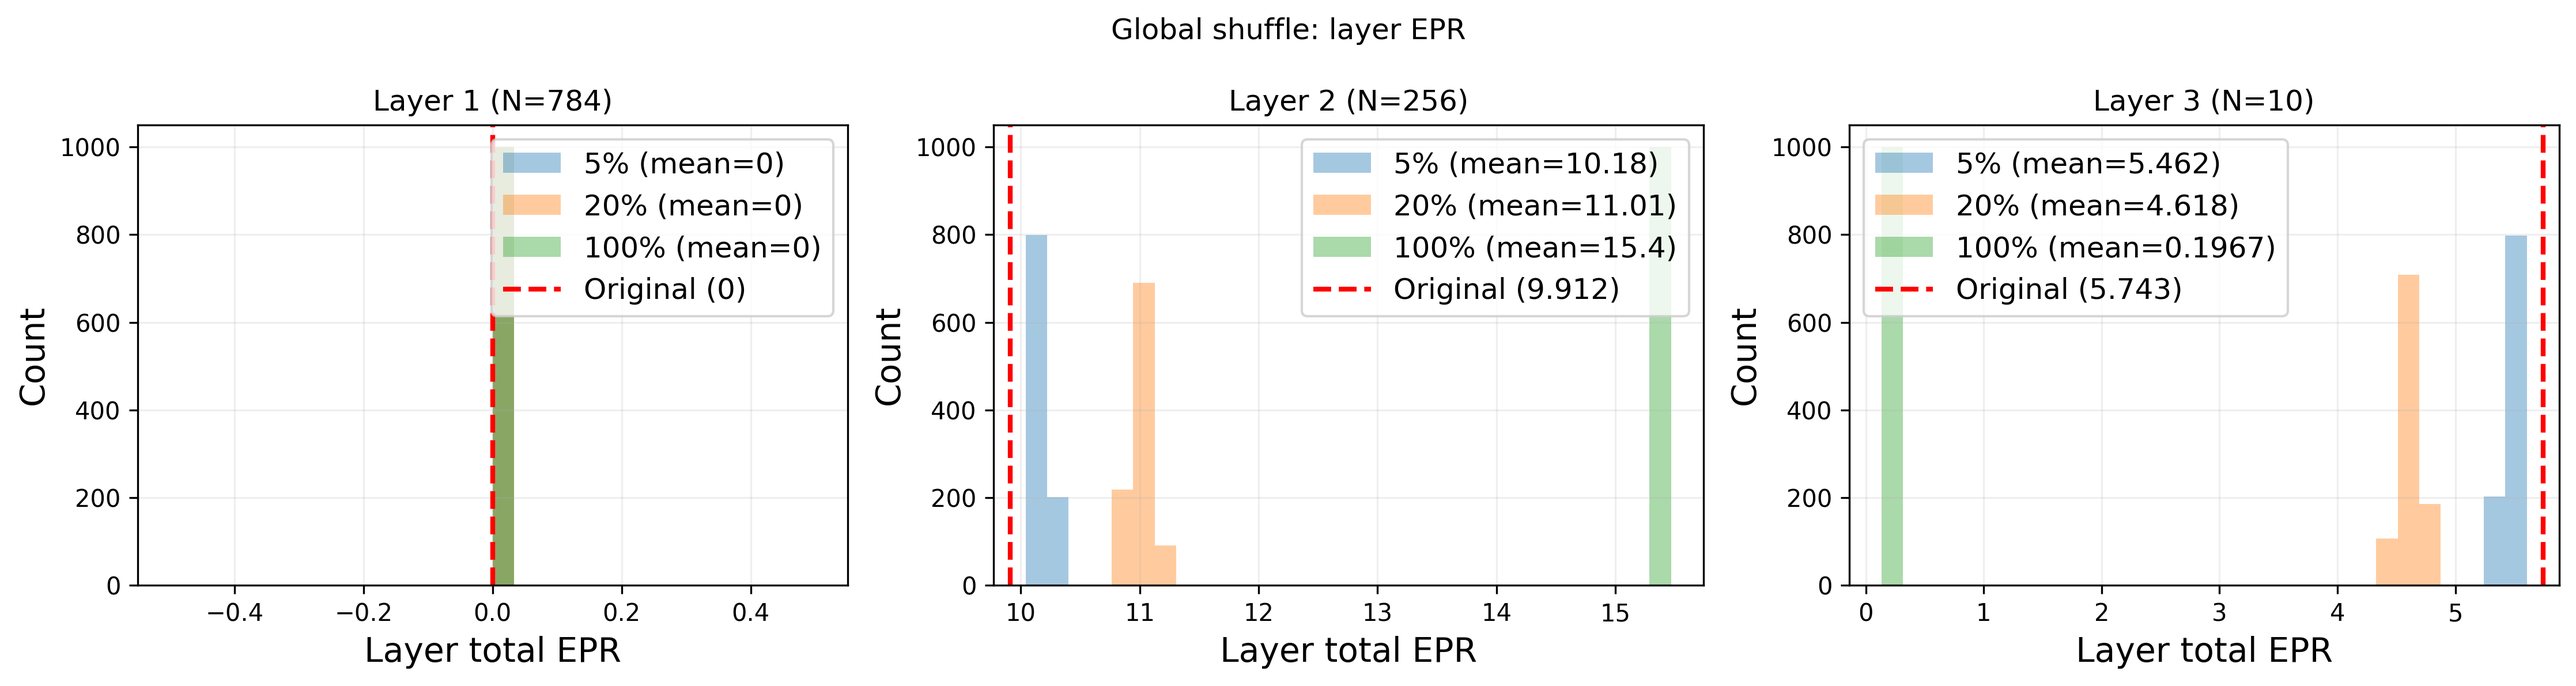
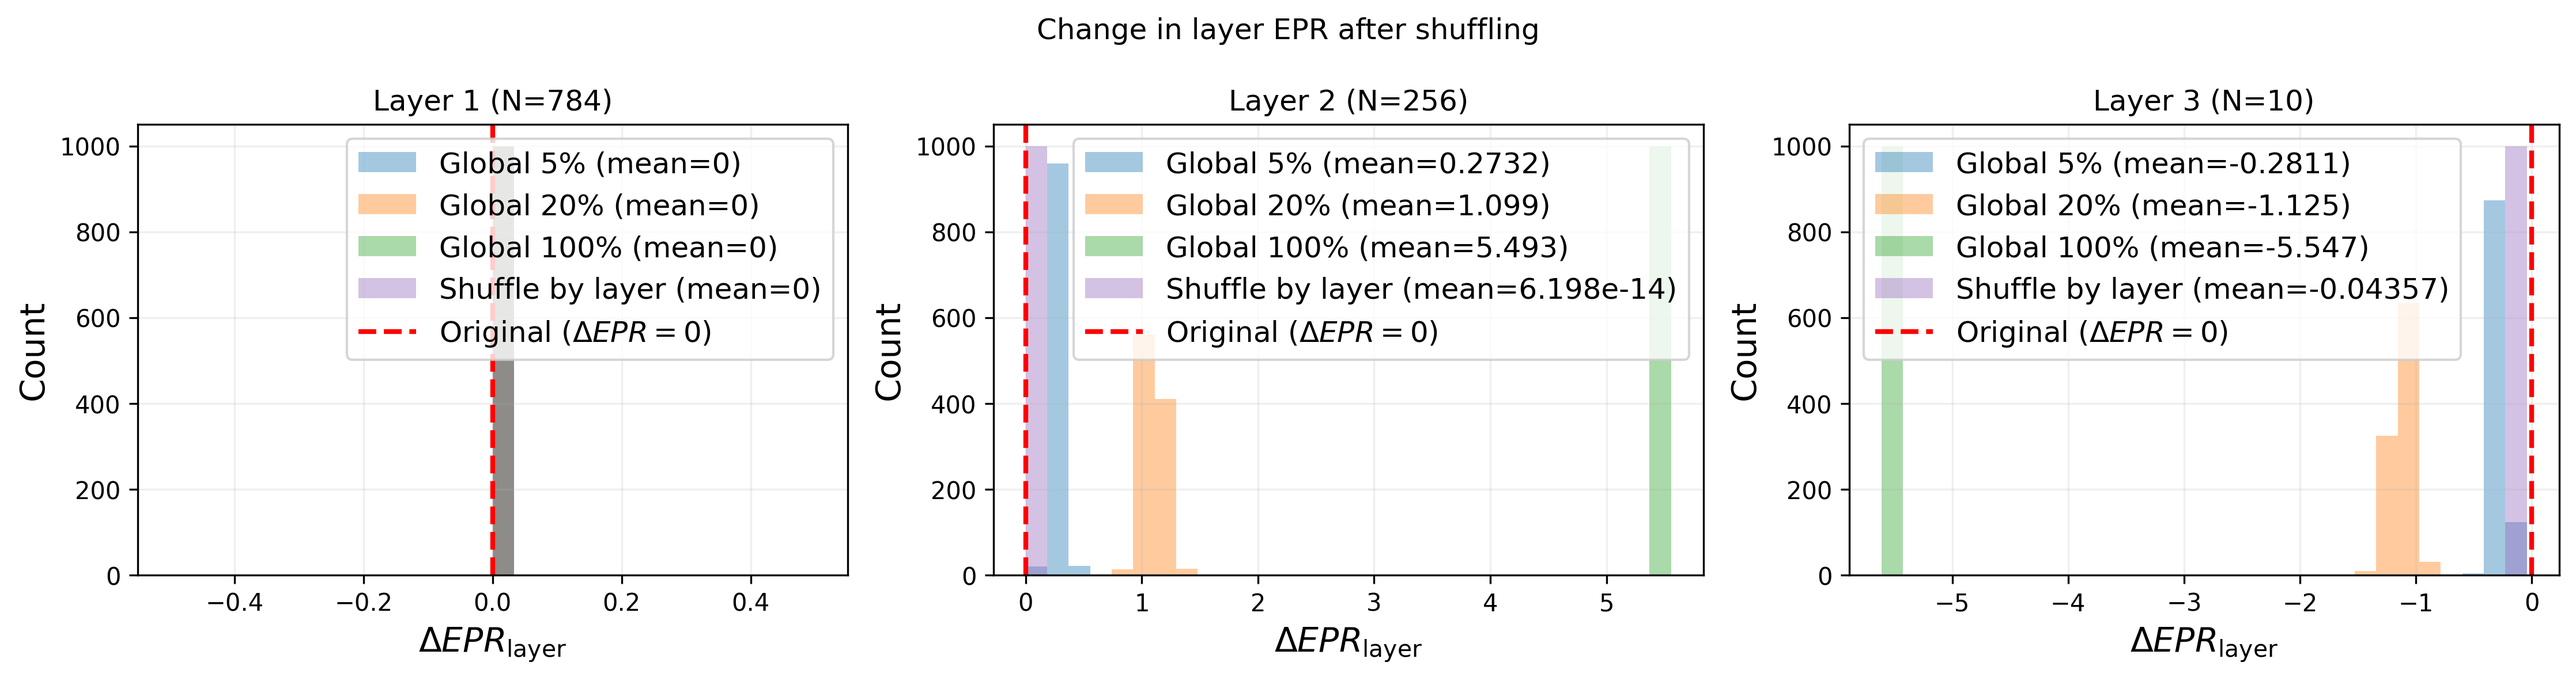
EPR difference

diff --git a/analysis/shuffle_ensemble.py b/analysis/shuffle_ensemble.py
@@ -311,14 +311,20 @@ else:
 #     bbox_inches="tight",
 # )
 
-# One-off comparison of 5%, 20%, and 100% GLOBAL weight shuffles.
+# One-off comparison of three GLOBAL shuffles and one LAYER shuffle.
 # Keep these paths explicit because this figure is only needed for this dataset.
 global_shuffle_dirs = {
-    "5%": project_dir / "shuffle_data" / "mnist256x1_linear" / "all_fraction005",
-    "20%": project_dir / "shuffle_data" / "mnist256x1_linear" / "all_fraction02",
-    "100%": project_dir / "shuffle_data" / "mnist256x1_linear" / "all",
+    "Global 5%": project_dir / "shuffle_data" / "mnist256x1_linear" / "all_fraction005",
+    "Global 20%": project_dir / "shuffle_data" / "mnist256x1_linear" / "all_fraction02",
+    "Global 100%": project_dir / "shuffle_data" / "mnist256x1_linear" / "all",
+    "Shuffle by layer": project_dir / "shuffle_data" / "mnist256x1_linear" / "layer",
 }
-global_colors = {"5%": "tab:blue", "20%": "tab:orange", "100%": "tab:green"}
+global_colors = {
+    "Global 5%": "tab:blue",
+    "Global 20%": "tab:orange",
+    "Global 100%": "tab:green",
+    "Shuffle by layer": "tab:purple",
+}
 global_total_epr = {}
 global_layer_epr = {}
 comparison_original_layers = None
@@ -338,14 +344,19 @@ for fraction_label, data_dir in global_shuffle_dirs.items():
     stable_layers = comparison_layers.loc[
         comparison_layers["id"].isin(stable_ids)
     ].copy()
+    original_by_layer = reference_rows.set_index("Layer")["EPR_total"]
+    stable_layers["EPR_change"] = (
+        stable_layers["EPR_total"]
+        - stable_layers["Layer"].map(original_by_layer)
+    )
     n_layers = reference_rows["Layer"].nunique()
     total_epr = stable_layers.groupby("id")["EPR_total"].sum(
         min_count=n_layers
-    ).dropna()
+    ).dropna() - reference_rows["EPR_total"].sum()
     global_total_epr[fraction_label] = total_epr
     global_layer_epr[fraction_label] = stable_layers
 
-# Overlay the total-EPR distributions using common bin edges.
+# Overlay the total-EPR changes using common bin edges.
 all_total_values = np.concatenate([values.to_numpy() for values in global_total_epr.values()])
 total_bins = np.histogram_bin_edges(all_total_values, bins=30)
 comparison_fig, comparison_ax = plt.subplots(figsize=(8, 6))
@@ -356,20 +367,18 @@ for fraction_label, values in global_total_epr.items():
         alpha=0.4,
         linewidth=2,
         color=global_colors[fraction_label],
-        label=(f"Global shuffle {fraction_label} "
-               f"(mean={values.mean():.4g}, N={len(values)})"),
+        label=f"{fraction_label} (mean={values.mean():.4g}, N={len(values)})",
     )
-comparison_original_epr = comparison_original_layers["EPR_total"].sum()
 comparison_ax.axvline(
-    comparison_original_epr,
+    0.0,
     color="red",
     linestyle="--",
     linewidth=2,
-    label=f"Original EPR ({comparison_original_epr:.4g})",
+    label=r"Original network ($\Delta EPR=0$)",
 )
-comparison_ax.set_xlabel("Total entropy production rate", fontsize=14)
+comparison_ax.set_xlabel(r"$\Delta EPR_{\mathrm{net}}$", fontsize=14)
 comparison_ax.set_ylabel("Count", fontsize=14)
-comparison_ax.set_title("Global shuffle: total EPR")
+comparison_ax.set_title("Change in total EPR after shuffling")
 comparison_ax.legend(fontsize=12)
 comparison_ax.grid(alpha=0.2)
 comparison_fig.tight_layout()
@@ -379,7 +388,7 @@ comparison_fig.savefig(
     bbox_inches="tight",
 )
 
-# Make the same overlaid comparison separately for every layer.
+# Make the same EPR-change comparison separately for every layer.
 comparison_original_layers = comparison_original_layers.sort_values("Layer")
 n_comparison_layers = len(comparison_original_layers)
 ncols = min(3, n_comparison_layers)
@@ -393,7 +402,7 @@ for ax, reference_row in zip(
 ):
     layer_values = {
         fraction_label: rows.loc[
-            rows["Layer"] == reference_row.Layer, "EPR_total"
+            rows["Layer"] == reference_row.Layer, "EPR_change"
         ].dropna()
         for fraction_label, rows in global_layer_epr.items()
     }
@@ -411,20 +420,20 @@ for ax, reference_row in zip(
             label=f"{fraction_label} (mean={values.mean():.4g})",
         )
     ax.axvline(
-        reference_row.EPR_total,
+        0.0,
         color="red",
         linestyle="--",
         linewidth=2,
-        label=f"Original ({reference_row.EPR_total:.4g})",
+        label=r"Original ($\Delta EPR=0$)",
     )
     ax.set_title(f"Layer {reference_row.Layer} (N={reference_row.node_count})")
-    ax.set_xlabel("Layer total EPR", fontsize=14)
+    ax.set_xlabel(r"$\Delta EPR_{\mathrm{layer}}$", fontsize=14)
     ax.set_ylabel("Count", fontsize=14)
     ax.legend(fontsize=12)
     ax.grid(alpha=0.2)
 for ax in list(comparison_layer_axes.flat)[n_comparison_layers:]:
     ax.set_visible(False)
-comparison_layer_fig.suptitle("Global shuffle: layer EPR")
+comparison_layer_fig.suptitle("Change in layer EPR after shuffling")
 comparison_layer_fig.tight_layout()
 comparison_layer_fig.savefig(
     figure_dir / "global_shuffle_layer_epr_comparison.png",
